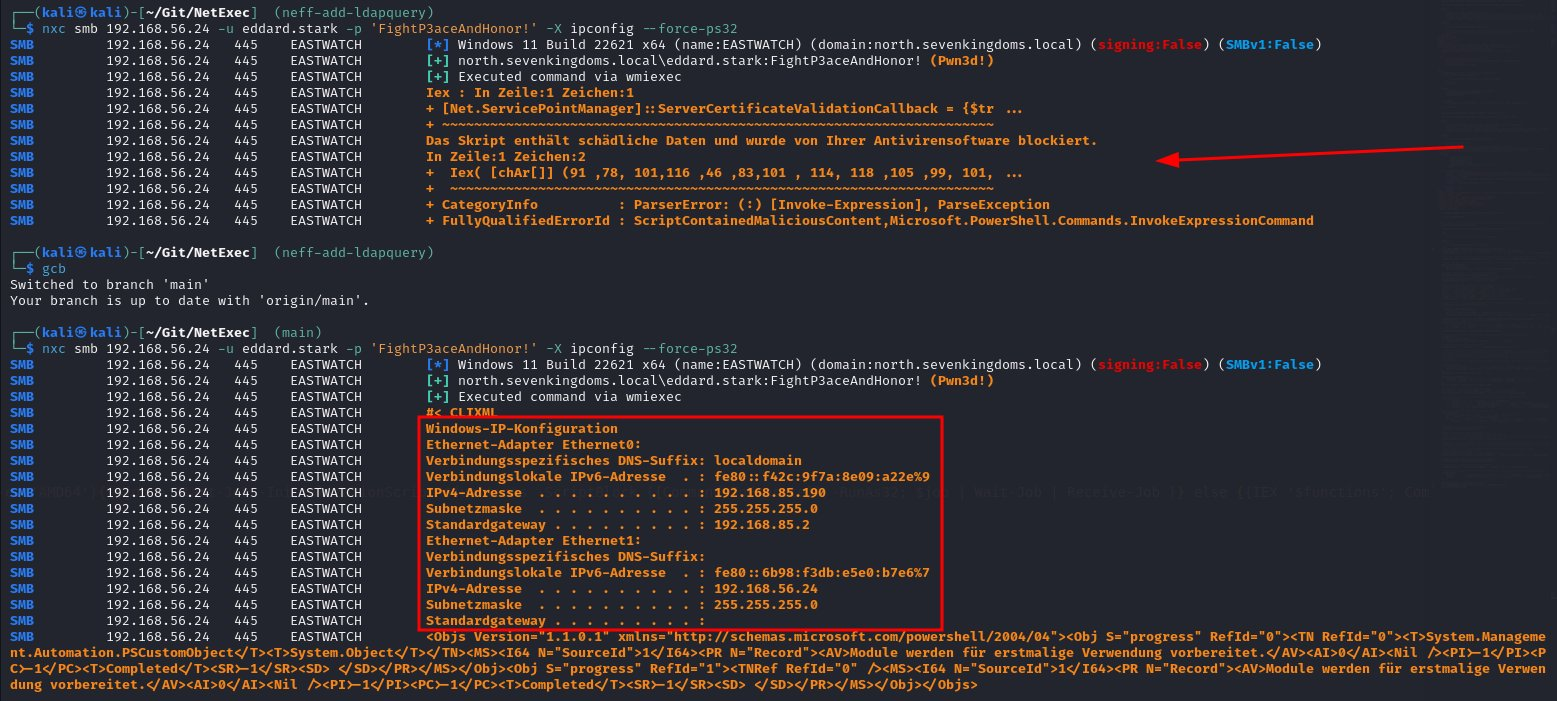
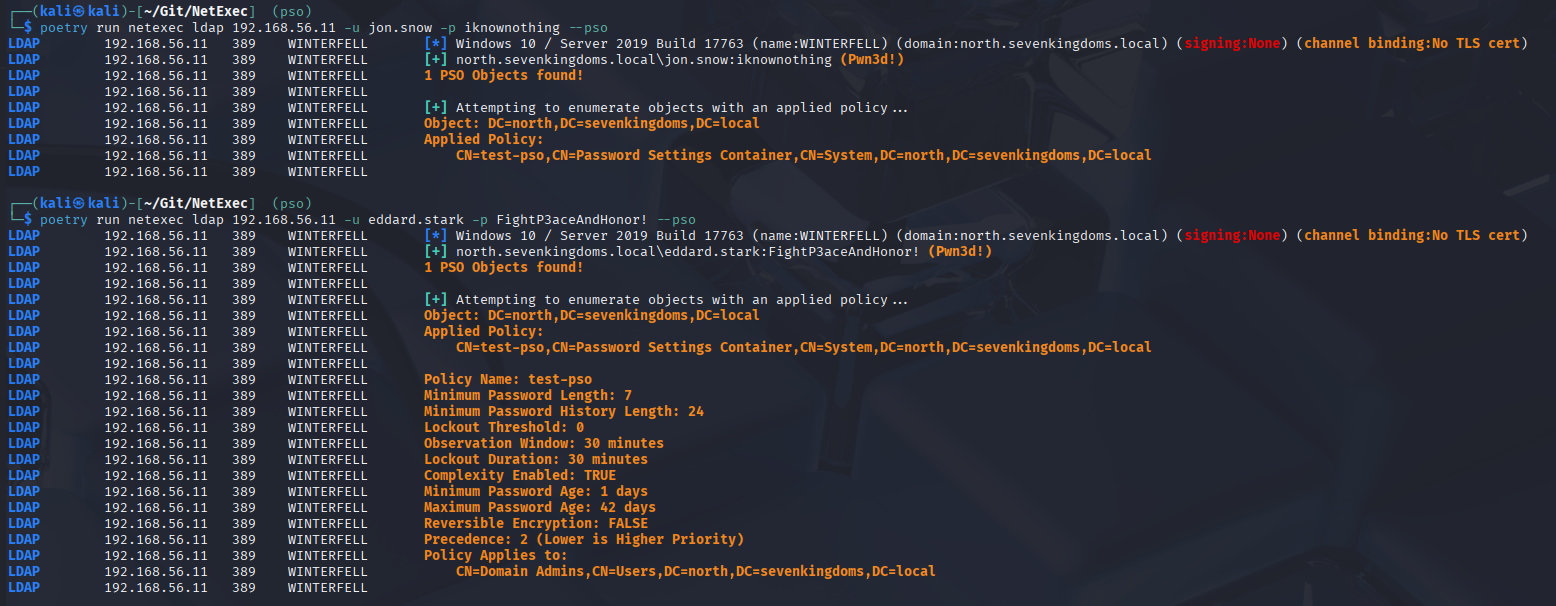
GITBOOK-117: No subject

Changed region(s): [[0.0, 0.0, 1.0, 1.0], [0.7404, 0.2079, 0.9563, 0.2376]]

diff --git a/news/v1.0.0-release.md b/news/v1.0.0-release.md
@@ -12,7 +12,7 @@ If you are reading this you have already found your way to the GitBook wiki, goo
 Here we will give you a rundown of all the new features of NetExec as we release new versions. \
 We will also provide documentation of all the existing modules and features to give you an idea of what NetExec is capable of!&#x20;
 
-<figure><img src="../.gitbook/assets/image (1) (1).png" alt=""><figcaption></figcaption></figure>
+<figure><img src="../.gitbook/assets/image (1) (1) (1).png" alt=""><figcaption></figcaption></figure>
 
 If you still have questions, feel free to join our [Discord server](https://discord.gg/pjwUTQzg8R) for help or to suggest new ideas and feature requests 📣\
 This release is mainly aimed at stability, to provide a solid baseline from which to work. Some minor and major bugs have been fixed, see below for details.&#x20;

diff --git a/news/v1.2.0-ItsAlwaysDNS.md b/news/v1.2.0-ItsAlwaysDNS.md
@@ -119,7 +119,7 @@ Thanks to [@Adamkadaban](https://x.com/Adamkadaban) NetExec now supports tab-com
 A major overhaul of the powershell functionality within NetExec has taken place, fixing most bugs and improving overall usability and stability. Obfuscation and Amsi bypasses have also been set to non-default, as they were often flagged even by AVs. A nice side effect is that the `ps32` downgrade now bypasses Windows Defender😄\
 Made by [@Marshall-Hallenbeck](https://x.com/MJHallenbeck).
 
-<figure><img src="../.gitbook/assets/image.png" alt=""><figcaption><p>Bypassing Windows Defender with --force-ps32</p></figcaption></figure>
+<figure><img src="../.gitbook/assets/image (1).png" alt=""><figcaption><p>Bypassing Windows Defender with --force-ps32</p></figcaption></figure>
 
 ## Outro
 

diff --git a/smb-protocol/enumeration/README.md b/smb-protocol/enumeration/README.md
@@ -22,8 +22,8 @@ If nxc isnt giving output of any kind, you probably have something wrong with th
 [Broken link](broken-reference)
 {% endcontent-ref %}
 
-{% content-ref url="enumerate-active-sessions.md" %}
-[enumerate-active-sessions.md](enumerate-active-sessions.md)
+{% content-ref url="broken-reference" %}
+[Broken link](broken-reference)
 {% endcontent-ref %}
 
 {% content-ref url="enumerate-shares-and-access.md" %}

diff --git a/SUMMARY.md b/SUMMARY.md
@@ -118,6 +118,10 @@
 * [🆕 Enumerate SCCM](ldap-protocol/enumerate-sccm.md)
 * [🆕 Enumerate Entra ID](ldap-protocol/enumerate-entra-id.md)
 
+***
+
+* [🆕 Dump PSO](dump-pso.md)
+
 ## WINRM protocol
 
 * [Password Spraying](winrm-protocol/password-spraying.md)

diff --git a/dump-pso.md b/dump-pso.md
@@ -1,0 +1,9 @@
+# 🆕 Dump PSO
+
+Dump PSO (Fine-Grained Password Policies (FGPPs) or Password Settings Objects (PSOs))
+
+```
+netexec ldap <ip> -u <user> -p <pass> --pso
+```
+
+<figure><img src=".gitbook/assets/image.png" alt=""><figcaption></figcaption></figure>
